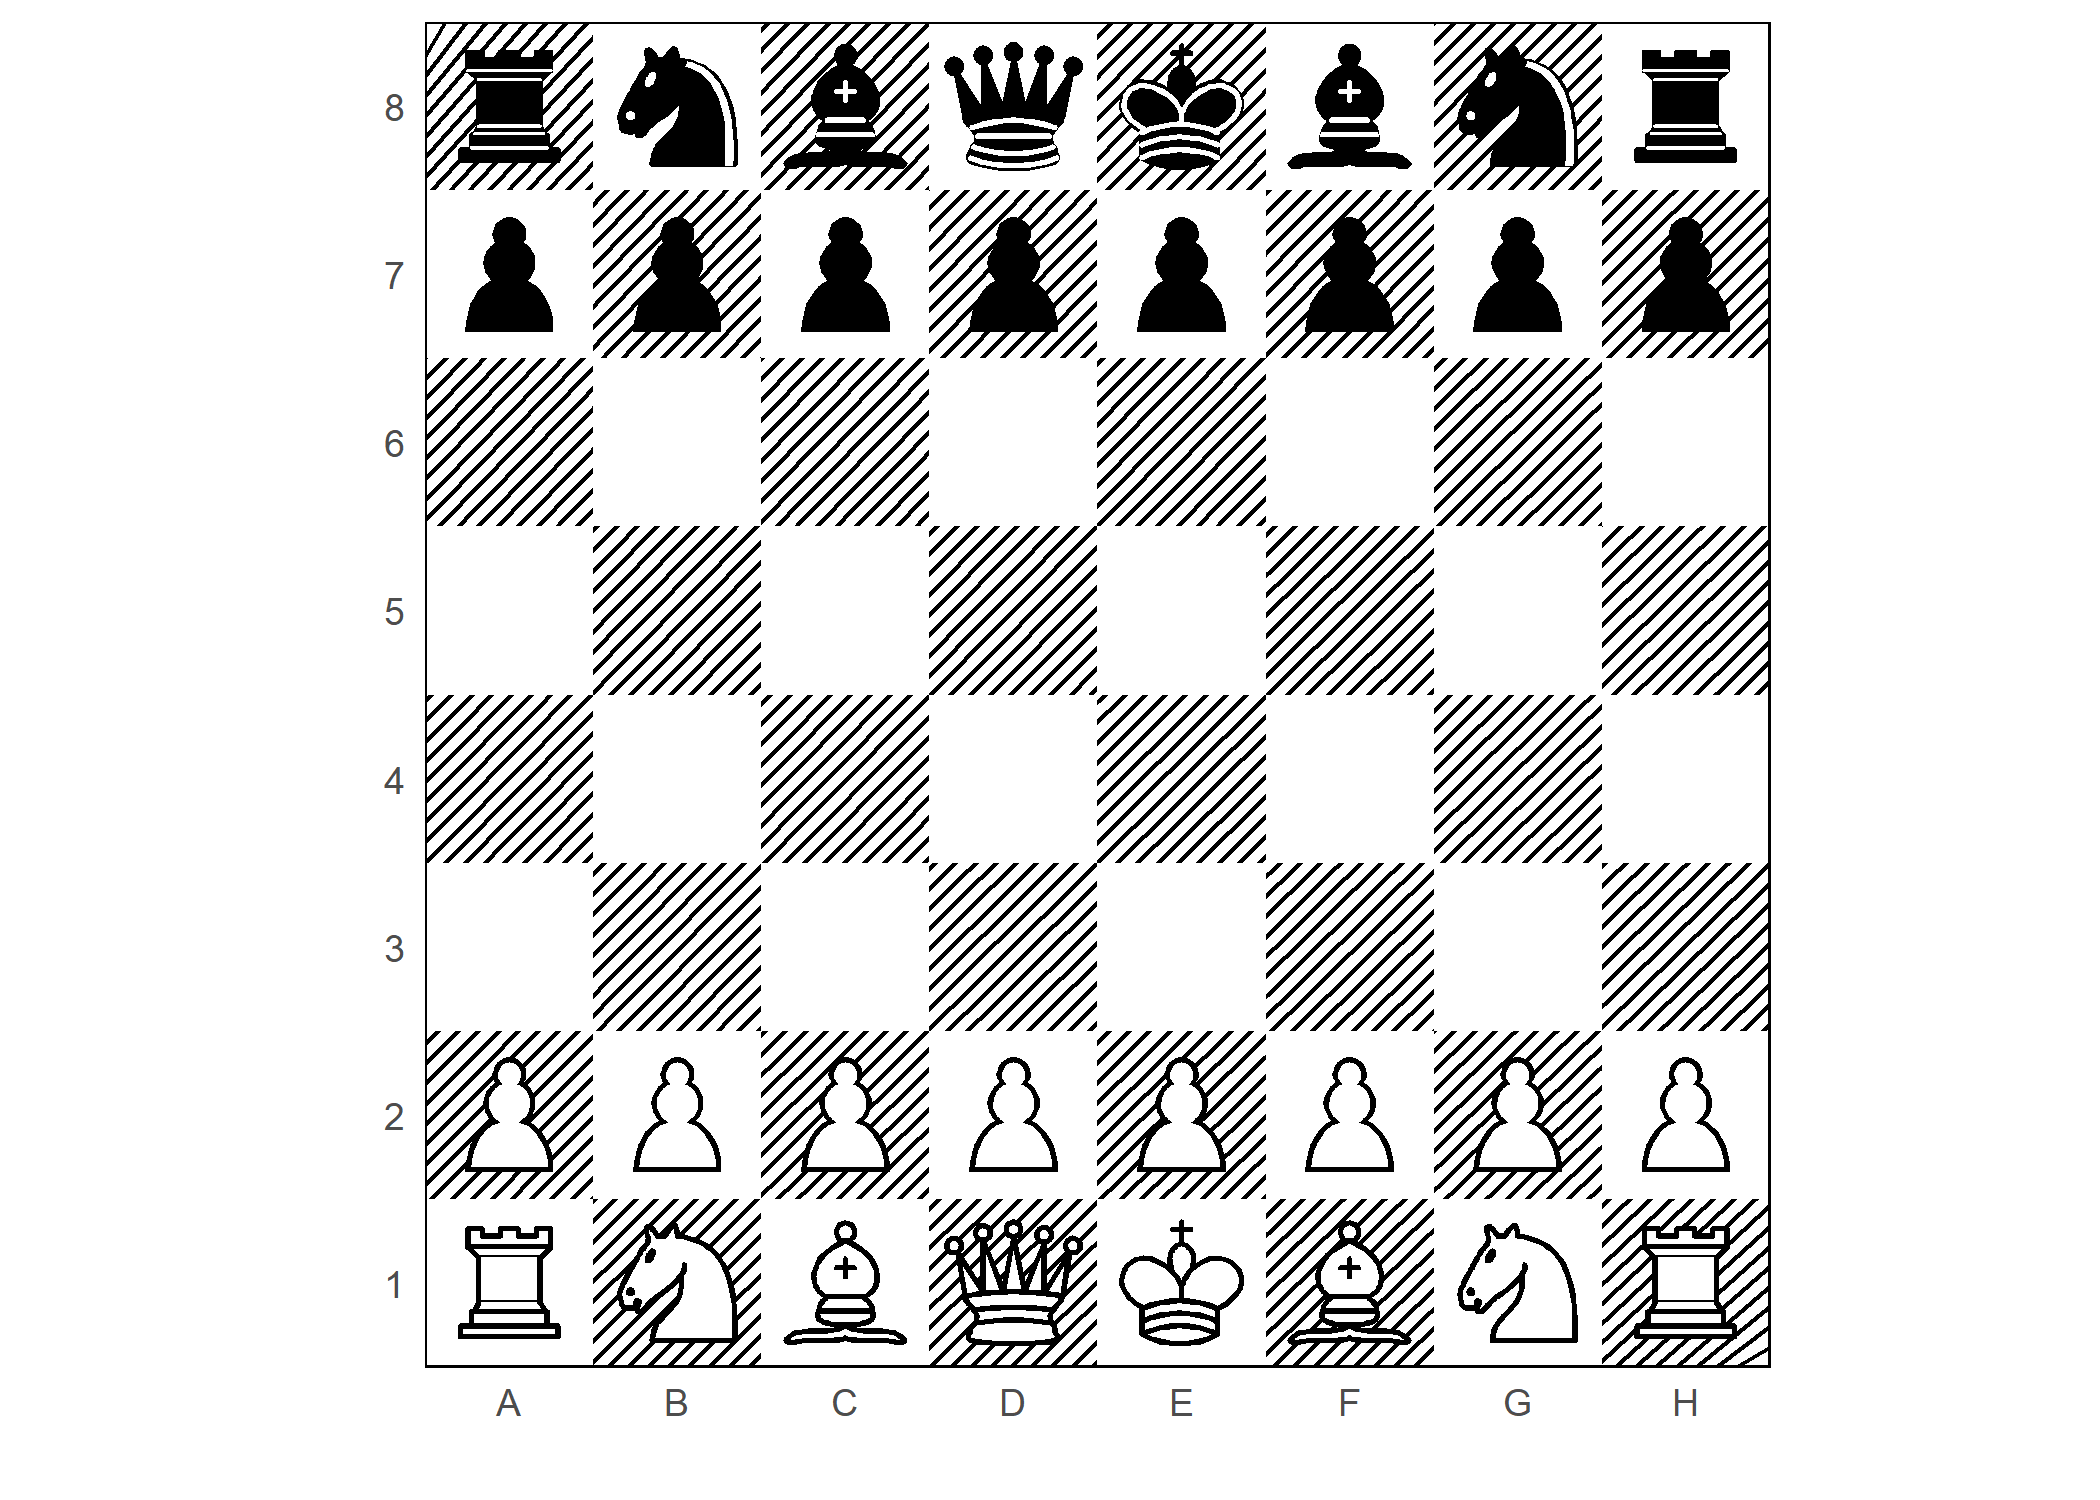
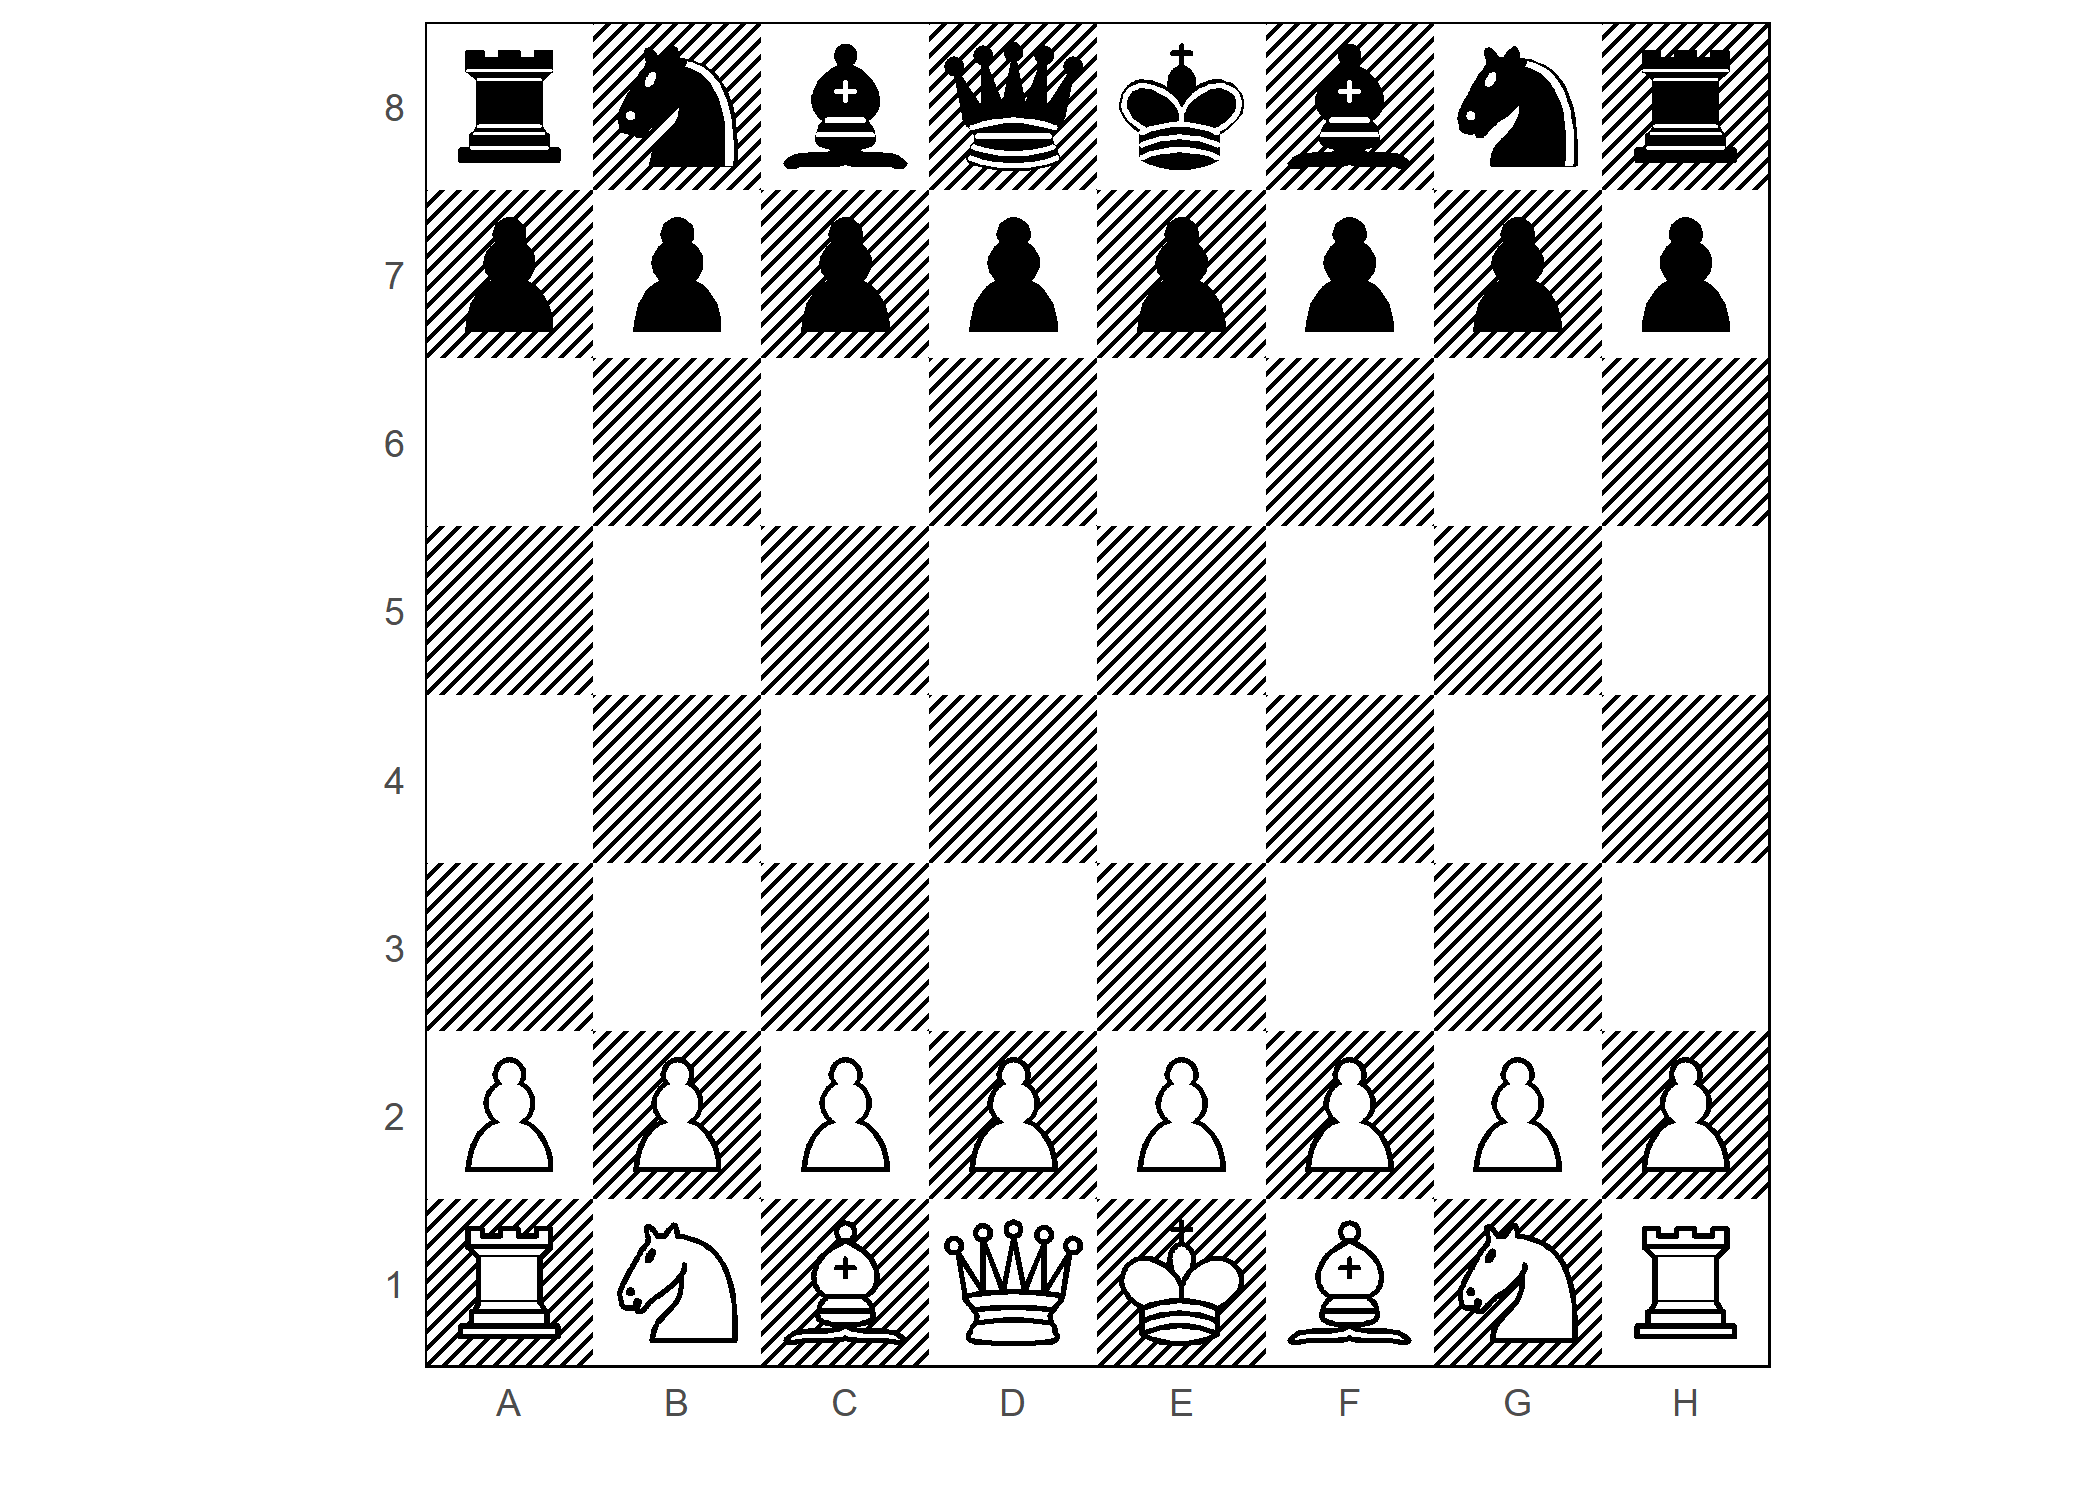
Fix bug: in the news theme the black and white squares were inverted

Changed region(s): [[0.1857, 0.0, 0.8357, 0.92]]

diff --git a/README.md b/README.md
@@ -3,7 +3,13 @@
 
 # ggambit <img src="data-raw/hex-logo/ggambit-hex-logo.png" align="right" height="139"/>
 
-**This is a work in progress - please log any bugs found**
+<!-- badges: start -->
+
+[![Lifecycle:
+experimental](https://img.shields.io/badge/lifecycle-experimental-orange.svg)](https://www.tidyverse.org/lifecycle/#experimental)
+<!-- badges: end -->
+
+**THIS IS A DEVELOPMENTAL WORK IN PROGRESS**
 
 ## Introduction
 
@@ -20,7 +26,7 @@ be added to the image, giving the user full creative control.
 Chess piece SVG design file downloaded from
 <https://commons.wikimedia.org/wiki/File:Chess_Pieces_Sprite.svg>
 
-  - jurgenwesterhof (adapted from work of Cburnett), CC BY-SA 3.0
+-   jurgenwesterhof (adapted from work of Cburnett), CC BY-SA 3.0
     <https://creativecommons.org/licenses/by-sa/3.0>, via Wikimedia
     Commons
 
@@ -103,7 +109,7 @@ plot_fen(palette = "news")
 
 ## Parsing PGN files
 
-There is a new **experimental** (and slow\!) function for the parsing of
+There is a new **experimental** (and slow!) function for the parsing of
 PGN files to a long-format dataframe `pgn_to_df()`. Currently this
 function only works with raw (un-annotated) PGN files and **should be
 used with extreme caution**.
